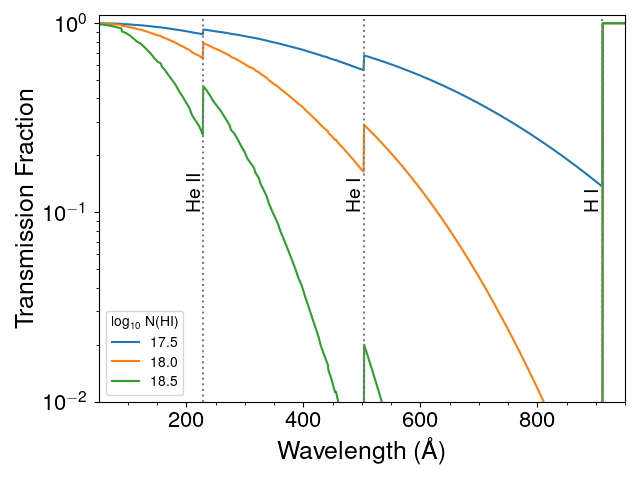
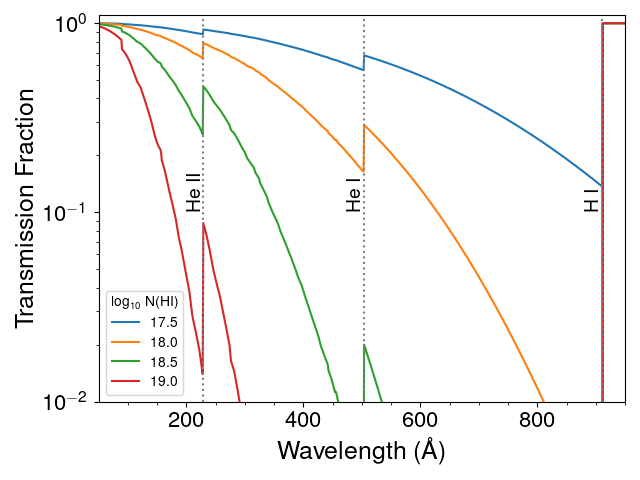
minor updates

diff --git a/NHI_to_attenuation_uncertainty.py b/NHI_to_attenuation_uncertainty.py
@@ -1,4 +1,4 @@
-from EUV_HI_HeI_abs import *
+from plot_EUV_ISM_attenuation_curve import *
 import numpy as np
 import matplotlib.pyplot as plt
 from matplotlib.colors import LogNorm
@@ -237,7 +237,7 @@ cbar.set_label('Fractional uncertainty',fontsize=18)
 
 
 if he_uncertainty:
-    filename = "fractional_uncertainties_100_600_Ang_with_helium_var.pkl"
+    filename = "fractional_uncertainties_100_600_Ang_with_helium_var.pkl" # save these somewhere else!
 
 else:
 

diff --git a/plot_EUV_ISM_attenuation_curve.py b/plot_EUV_ISM_attenuation_curve.py
@@ -129,7 +129,7 @@ wave = np.arange(50,950,1)
 rel_he1 = 0.08
 frac_he2 = 0.6
 
-h1_cols = np.array([17.5, 18.0, 18.5])
+h1_cols = np.array([17.5, 18.0, 18.5, 19.0])
 
 fig = plt.figure()
 ax = fig.add_subplot(111)
